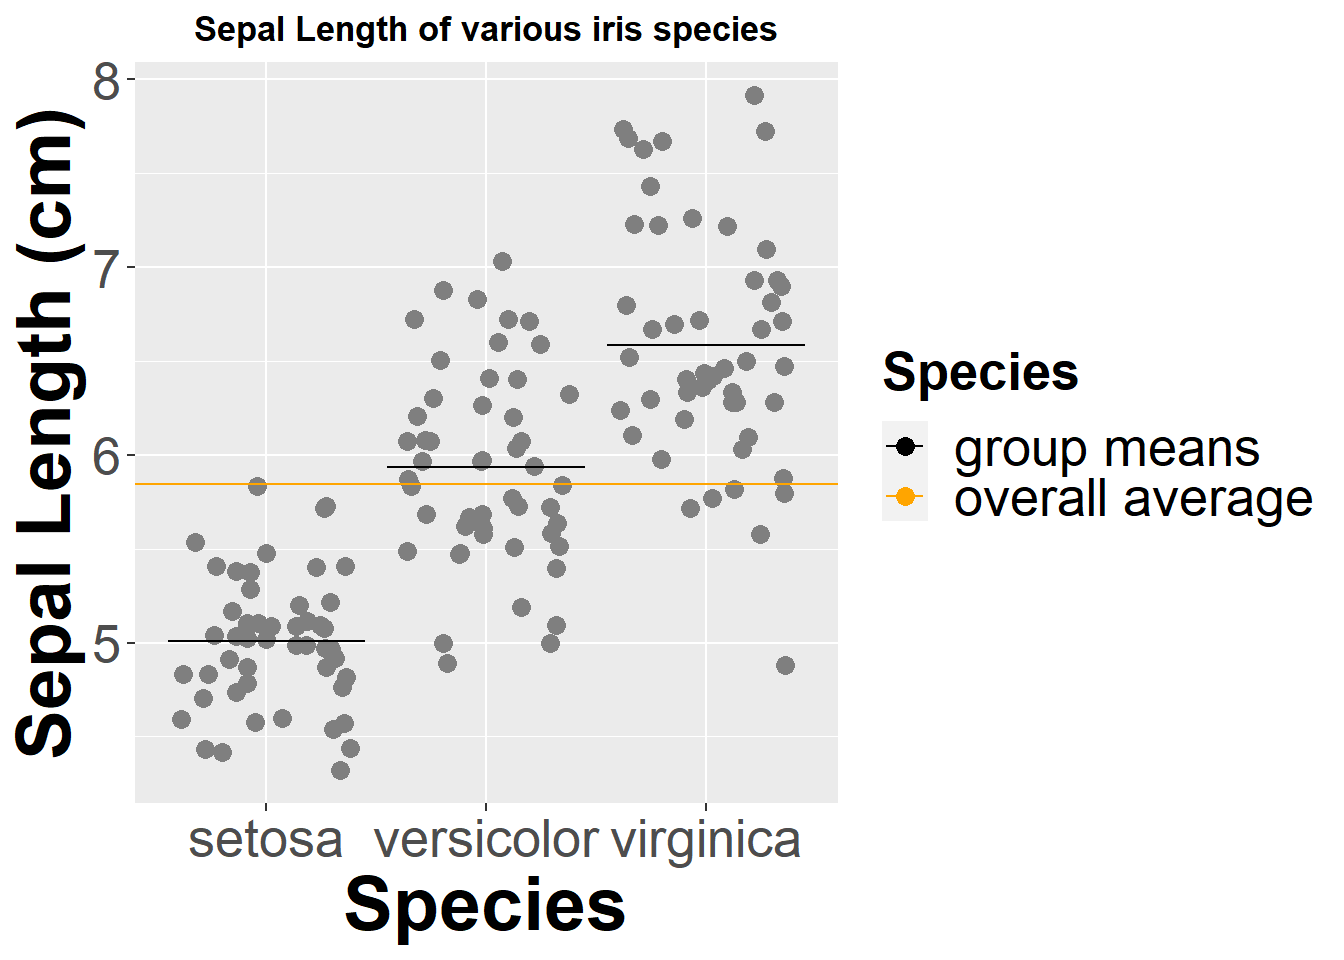
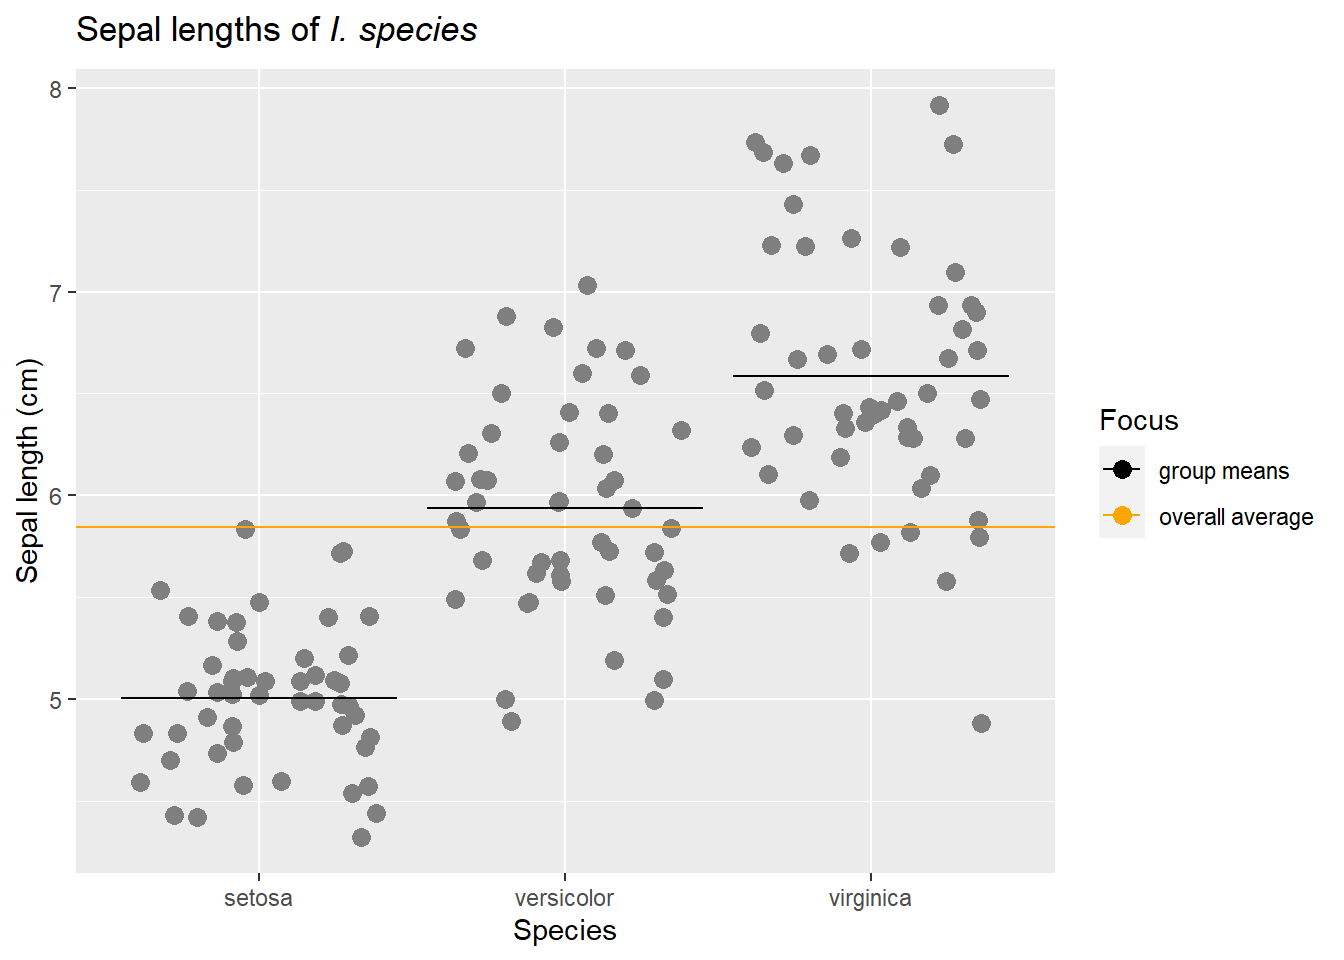
Built site for gh-pages

diff --git a/content/Compare_means_among_populations.html b/content/Compare_means_among_populations.html
@@ -357,8 +357,8 @@ pre > code.sourceCode > span > a:first-child::before { text-decoration: underlin
 <p>and tested if it was equal to a given value (7.0 cm)</p>
 <p><span class="math display">\[
 \begin{split}
-H_O: \mu_{height} = 7 \ cm \\
-H_A: \mu_{height} \neq 7 \ cm
+H_O: \mu_{sepal \ length} = 7 \ cm \\
+H_A: \mu_{sepal \ length} \neq 7 \ cm
 \end{split}
 \]</span></p>
 <p>We then considered how to assess these types of hypotheses using z, t, Wilcoxon, and sign tests.</p>
@@ -395,8 +395,8 @@ H_A: \mu_{height} \neq 7 \ cm
 <p>So we typically focus on a parameter that describes the distribution of a focal trait, such as the mean. Just like binomial data, our hypotheses are then</p>
 <p><span class="math display">\[
 \begin{split}
-H_O: \mu_{height, setosa} = \mu_{height, virginica} = \mu_{height, versicolor}\\  
-H_A: \mu_{height, setosa} \neq \mu_{height, virginica} \neq \mu_{height, versicolor}\\
+H_O: \mu_{sepal \ length, \ setosa} = \mu_{sepal \ length, \ virginica} = \mu_{sepal \ length, \ versicolor}\\  
+H_A: \mu_{sepal \ length, \ setosa} \neq \mu_{sepal \ length, \ virginica} \neq \mu_{sepal \ length, \ versicolor}\\
 \end{split}
 \]</span></p>
 <p>Given that, our overall idea is to consider if the data are better explained by an overall group average or by species-specific averages. To visualize this, we could use</p>
@@ -404,18 +404,14 @@ H_A: \mu_{height, setosa} \neq \mu_{height, virginica} \neq \mu_{height, versico
 <div class="sourceCode cell-code" id="cb7"><pre class="sourceCode r code-with-copy"><code class="sourceCode r"><span id="cb7-1"><a href="#cb7-1" aria-hidden="true" tabindex="-1"></a>colors <span class="ot">&lt;-</span> <span class="fu">c</span>(<span class="st">"group means"</span> <span class="ot">=</span> <span class="st">"black"</span>, <span class="st">"overall average"</span> <span class="ot">=</span> <span class="st">"orange"</span>)</span>
 <span id="cb7-2"><a href="#cb7-2" aria-hidden="true" tabindex="-1"></a><span class="fu">ggplot</span>(iris, <span class="fu">aes</span>(Species,Sepal.Length)) <span class="sc">+</span> </span>
 <span id="cb7-3"><a href="#cb7-3" aria-hidden="true" tabindex="-1"></a>  <span class="fu">geom_jitter</span>(<span class="fu">aes</span>(<span class="at">colour=</span>Species), <span class="at">size =</span> <span class="dv">3</span>) <span class="sc">+</span></span>
-<span id="cb7-4"><a href="#cb7-4" aria-hidden="true" tabindex="-1"></a>  <span class="fu">ylab</span>(<span class="st">"Sepal Length (cm)"</span>)<span class="sc">+</span><span class="fu">ggtitle</span>(<span class="st">"Sepal Length of various iris species"</span>)<span class="sc">+</span></span>
-<span id="cb7-5"><a href="#cb7-5" aria-hidden="true" tabindex="-1"></a>  <span class="fu">theme</span>(<span class="at">axis.title.x =</span> <span class="fu">element_text</span>(<span class="at">face=</span><span class="st">"bold"</span>, <span class="at">size=</span><span class="dv">28</span>), </span>
-<span id="cb7-6"><a href="#cb7-6" aria-hidden="true" tabindex="-1"></a>        <span class="at">axis.title.y =</span> <span class="fu">element_text</span>(<span class="at">face=</span><span class="st">"bold"</span>, <span class="at">size=</span><span class="dv">28</span>), </span>
-<span id="cb7-7"><a href="#cb7-7" aria-hidden="true" tabindex="-1"></a>        <span class="at">axis.text.y  =</span> <span class="fu">element_text</span>(<span class="at">size=</span><span class="dv">20</span>),</span>
-<span id="cb7-8"><a href="#cb7-8" aria-hidden="true" tabindex="-1"></a>        <span class="at">axis.text.x  =</span> <span class="fu">element_text</span>(<span class="at">size=</span><span class="dv">20</span>), </span>
-<span id="cb7-9"><a href="#cb7-9" aria-hidden="true" tabindex="-1"></a>        <span class="at">legend.text =</span><span class="fu">element_text</span>(<span class="at">size=</span><span class="dv">20</span>),</span>
-<span id="cb7-10"><a href="#cb7-10" aria-hidden="true" tabindex="-1"></a>        <span class="at">legend.title =</span> <span class="fu">element_text</span>(<span class="at">size=</span><span class="dv">20</span>, <span class="at">face=</span><span class="st">"bold"</span>),</span>
-<span id="cb7-11"><a href="#cb7-11" aria-hidden="true" tabindex="-1"></a>        <span class="at">plot.title =</span> <span class="fu">element_text</span>(<span class="at">hjust =</span> <span class="fl">0.5</span>, <span class="at">face=</span><span class="st">"bold"</span>)) <span class="sc">+</span></span>
-<span id="cb7-12"><a href="#cb7-12" aria-hidden="true" tabindex="-1"></a>  <span class="fu">geom_errorbar</span>(<span class="fu">aes</span>(<span class="at">ymin=</span>Sepal.Length, <span class="at">ymax=</span>Sepal.Length, <span class="at">color=</span><span class="st">"group means"</span>), </span>
-<span id="cb7-13"><a href="#cb7-13" aria-hidden="true" tabindex="-1"></a>                <span class="at">data =</span> function_output) <span class="sc">+</span></span>
-<span id="cb7-14"><a href="#cb7-14" aria-hidden="true" tabindex="-1"></a>    <span class="fu">geom_hline</span>(<span class="fu">aes</span>(<span class="at">yintercept=</span><span class="fu">mean</span>(Sepal.Length),  <span class="at">color =</span> <span class="st">"overall average"</span>))<span class="sc">+</span></span>
-<span id="cb7-15"><a href="#cb7-15" aria-hidden="true" tabindex="-1"></a>  <span class="fu">scale_color_manual</span>(<span class="at">values=</span>colors)</span></code><button title="Copy to Clipboard" class="code-copy-button"><i class="bi"></i></button></pre></div>
+<span id="cb7-4"><a href="#cb7-4" aria-hidden="true" tabindex="-1"></a>  <span class="fu">geom_errorbar</span>(<span class="fu">aes</span>(<span class="at">ymin=</span>Sepal.Length, <span class="at">ymax=</span>Sepal.Length, <span class="at">color=</span><span class="st">"group means"</span>), </span>
+<span id="cb7-5"><a href="#cb7-5" aria-hidden="true" tabindex="-1"></a>                <span class="at">data =</span> function_output) <span class="sc">+</span></span>
+<span id="cb7-6"><a href="#cb7-6" aria-hidden="true" tabindex="-1"></a>    <span class="fu">geom_hline</span>(<span class="fu">aes</span>(<span class="at">yintercept=</span><span class="fu">mean</span>(Sepal.Length),  <span class="at">color =</span> <span class="st">"overall average"</span>))<span class="sc">+</span></span>
+<span id="cb7-7"><a href="#cb7-7" aria-hidden="true" tabindex="-1"></a>  <span class="fu">scale_color_manual</span>(<span class="at">values=</span>colors)<span class="sc">+</span></span>
+<span id="cb7-8"><a href="#cb7-8" aria-hidden="true" tabindex="-1"></a>    <span class="fu">labs</span>(<span class="at">title=</span><span class="fu">expression</span>(<span class="fu">paste</span>(<span class="st">"Sepal lengths of "</span>,<span class="fu">italic</span>(<span class="st">"I. species"</span>))),</span>
+<span id="cb7-9"><a href="#cb7-9" aria-hidden="true" tabindex="-1"></a>       <span class="at">y=</span> <span class="st">"Sepal length (cm)"</span>,</span>
+<span id="cb7-10"><a href="#cb7-10" aria-hidden="true" tabindex="-1"></a>       <span class="at">x=</span> <span class="st">"Species"</span>, </span>
+<span id="cb7-11"><a href="#cb7-11" aria-hidden="true" tabindex="-1"></a>       <span class="at">color=</span> <span class="st">"Focus"</span>)</span></code><button title="Copy to Clipboard" class="code-copy-button"><i class="bi"></i></button></pre></div>
 <div class="cell-output-display">
 <p><img src="Compare_means_among_populations_files/figure-html/unnamed-chunk-4-1.png" class="img-fluid" width="672"></p>
 </div>

diff --git a/content/summarizing_data.html b/content/summarizing_data.html
@@ -1556,7 +1556,7 @@ Attaching package: 'ggpubr'</code></pre>
 <summary>
 Why is the mode not always on the highest bar?
 </summary>
-<p>Note the mode is heavily/totally impacted by data precision and thus can lead to unusual matches with histograms. In our above example, cardinals were measured to 10<sup>-3</sup> grams. However, the data was binned to levels of 10<sup>-2</sup> grams. Due to this mismatch, the most common measurement of the <em>raw</em> data was 47.269, which occurred 6 times. However, more data points still fell in another bin!</p>
+<p>Note the mode is heavily/totally impacted by data precision and thus can lead to unusual matches with histograms. In our above example, cardinals were measured to 10<sup>-3</sup> grams. However, the data was binned to levels of 10<sup>-2</sup> grams. Due to this mismatch, the most common measurement of the <em>raw</em> data was 51.902, which occurred 6 times. However, more data points still fell in another bin!</p>
 </details>
 <p>A special case where central tendency may not be the best way to describe a distribution is known as <em>bimodal</em> data. In this case, the distribution shows two, not one, clear peak. Remember the woodpecker <a href="#fig-woodpeckers">Figure&nbsp;14</a> data?</p>
 <div class="cell">
@@ -1722,7 +1722,7 @@ CV = \frac{s}{Y} * 100\%
 <div class="sourceCode cell-code" id="cb92"><pre class="sourceCode r code-with-copy"><code class="sourceCode r"><span id="cb92-1"><a href="#cb92-1" aria-hidden="true" tabindex="-1"></a><span class="fu">summary</span>(cardinals)</span></code><button title="Copy to Clipboard" class="code-copy-button"><i class="bi"></i></button></pre></div>
 <div class="cell-output cell-output-stdout">
 <pre><code>   Min. 1st Qu.  Median    Mean 3rd Qu.    Max. 
-  24.49   46.12   50.00   49.18   53.13   59.48 </code></pre>
+  19.68   45.96   50.02   49.16   53.19   59.58 </code></pre>
 </div>
 </div>
 <p>Note that if we shifted the bottom 10% of the values even <em>further</em> left (increasing the skew), the median stays the same, as does the IQR.</p>
@@ -1742,7 +1742,7 @@ CV = \frac{s}{Y} * 100\%
 <div class="sourceCode cell-code" id="cb96"><pre class="sourceCode r code-with-copy"><code class="sourceCode r"><span id="cb96-1"><a href="#cb96-1" aria-hidden="true" tabindex="-1"></a><span class="fu">summary</span>(cardinals_new)</span></code><button title="Copy to Clipboard" class="code-copy-button"><i class="bi"></i></button></pre></div>
 <div class="cell-output cell-output-stdout">
 <pre><code>   Min. 1st Qu.  Median    Mean 3rd Qu.    Max. 
-  24.09   46.12   50.00   49.14   53.13   59.48 </code></pre>
+  19.28   45.96   50.02   49.12   53.19   59.58 </code></pre>
 </div>
 <div class="cell-output-display">
 <div id="fig-cardinals_ggplot2_shifted" class="quarto-figure quarto-figure-center anchored">

diff --git a/content/Tests_for_continuous_data_from_one_sample.html b/content/Tests_for_continuous_data_from_one_sample.html
@@ -386,12 +386,12 @@ What is our null hypothesis for this example?
 <p>For this example, we are focused on a two-tailed test (we are asking if the mean is equal to a certain value), so we have</p>
 <p><span class="math display">\[
 \begin{split}
-H_O: \mu_{height} = 7 \ cm \\
-H_A: \mu_{height} \neq 7 \ cm
+H_O: \mu_{sepal \ length} = 7 \ cm \\
+H_A: \mu_{sepal \ length} \neq 7 \ cm
 \end{split}
 \]</span></p>
 </details>
-<p>Now that we have a null hypothesis, we need to test it. We can do this by simulation. Let’s make a distribution where the <span class="math inline">\(\mu_{height} =7 \  cm\)</span>, then draw samples from it and see how rare it is to get what we actually observed in the data…which was</p>
+<p>Now that we have a null hypothesis, we need to test it. We can do this by simulation. Let’s make a distribution where the <span class="math inline">\(\mu_{sepal \ length} =7 \  cm\)</span>, then draw samples from it and see how rare it is to get what we actually observed in the data…which was</p>
 <div class="cell">
 <div class="sourceCode cell-code" id="cb3"><pre class="sourceCode r code-with-copy"><code class="sourceCode r"><span id="cb3-1"><a href="#cb3-1" aria-hidden="true" tabindex="-1"></a><span class="fu">mean</span>(iris[iris<span class="sc">$</span>Species <span class="sc">==</span> <span class="st">"virginica"</span>,<span class="st">"Sepal.Length"</span>])</span></code><button title="Copy to Clipboard" class="code-copy-button"><i class="bi"></i></button></pre></div>
 <div class="cell-output cell-output-stdout">
@@ -536,8 +536,8 @@ x =  (x-\mu)^2
 <p>Instead it would be nice to find a way to replicate the distribution we see above for similar experiments using an equation (just like we did for the binomial data!). One step in doing this relates to how we examine our predictions given our hypotheses. It turns out, we can map our hypotheses to <em>models</em> that explain the variation we see in the data. Our hypotheses (remember</p>
 <p><span class="math display">\[
 \begin{split}
-H_O: \mu_{height} = 7 \ cm \\
-H_A: \mu_{height} \neq 7 \ cm
+H_O: \mu_{sepal \ length} = 7 \ cm \\
+H_A: \mu_{sepal \ length} \neq 7 \ cm
 \end{split}
 \]</span></p>
 <p>focus on the mean. They are also stating a prediction for every outcome! Under the null hypothesis, if we were asked to guess the length of a sepal from <em>I. virginica</em>, we would guess 7 cm. Under the alternative hypothesis, we would guess it’s something different than 7. Using our sample, we might instead guess it’s equal to 7 + <span class="math inline">\(\delta\)</span>, where <span class="math inline">\(\delta\)</span> is estimated from our sample and 7+ <span class="math inline">\(\delta\)</span> is the mean of our sample.</p>

diff --git a/content/Acquiring_data.html b/content/Acquiring_data.html
@@ -379,7 +379,7 @@ div.csl-indent {
 <div class="cell">
 <div class="sourceCode cell-code" id="cb1"><pre class="sourceCode r code-with-copy"><code class="sourceCode r"><span id="cb1-1"><a href="#cb1-1" aria-hidden="true" tabindex="-1"></a>lengths <span class="ot">&lt;-</span> <span class="fu">rnorm</span>(<span class="at">n=</span><span class="dv">1000</span>, <span class="at">mean =</span> <span class="dv">10</span>, <span class="at">sd=</span><span class="dv">1</span>)</span></code><button title="Copy to Clipboard" class="code-copy-button"><i class="bi"></i></button></pre></div>
 </div>
-<p>The average length of fish in this population is 9.95 cm. We can then simulate a sample from this population. In fact, let’s simulate 2 and compare the means of each.</p>
+<p>The average length of fish in this population is 9.97 cm. We can then simulate a sample from this population. In fact, let’s simulate 2 and compare the means of each.</p>
 <div class="cell">
 <div class="sourceCode cell-code" id="cb2"><pre class="sourceCode r code-with-copy"><code class="sourceCode r"><span id="cb2-1"><a href="#cb2-1" aria-hidden="true" tabindex="-1"></a>sample_1 <span class="ot">&lt;-</span> <span class="fu">sample</span>(lengths,<span class="dv">50</span>)</span>
 <span id="cb2-2"><a href="#cb2-2" aria-hidden="true" tabindex="-1"></a>sample_2 <span class="ot">&lt;-</span><span class="fu">sample</span>(lengths, <span class="dv">50</span>)</span></code><button title="Copy to Clipboard" class="code-copy-button"><i class="bi"></i></button></pre></div>

diff --git a/content/Probability.html b/content/Probability.html
@@ -573,7 +573,7 @@ P[roll=blue] + P[roll=6] - P[roll=6 \ and \ blue]= \frac{1}{2} + \frac{1}{6} -\f
 <p><img src="Probability_files/figure-html/unnamed-chunk-5-1.png" class="img-fluid" width="672"></p>
 </div>
 </div>
-<p>Notice here we find the probability of rolling a sum of 5 is 0.11212 which is very close to <span class="math inline">\(\frac{4}{36}\)</span>.</p>
+<p>Notice here we find the probability of rolling a sum of 5 is 0.10992 which is very close to <span class="math inline">\(\frac{4}{36}\)</span>.</p>
 <p>To find the probability using math, we have to note that the dice rolls are independent. For example, even though we only want a <strong>4</strong> on the second dice if we roll a <strong>1</strong> on the first dice, the roll of the first die does not influence the roll of the second. We should also note the desired outcomes are mutually exclusive. So we can find the probability of each happening and then add them. It’s easy to see how probability can get complicated!</p>
 </section>
 </section>
